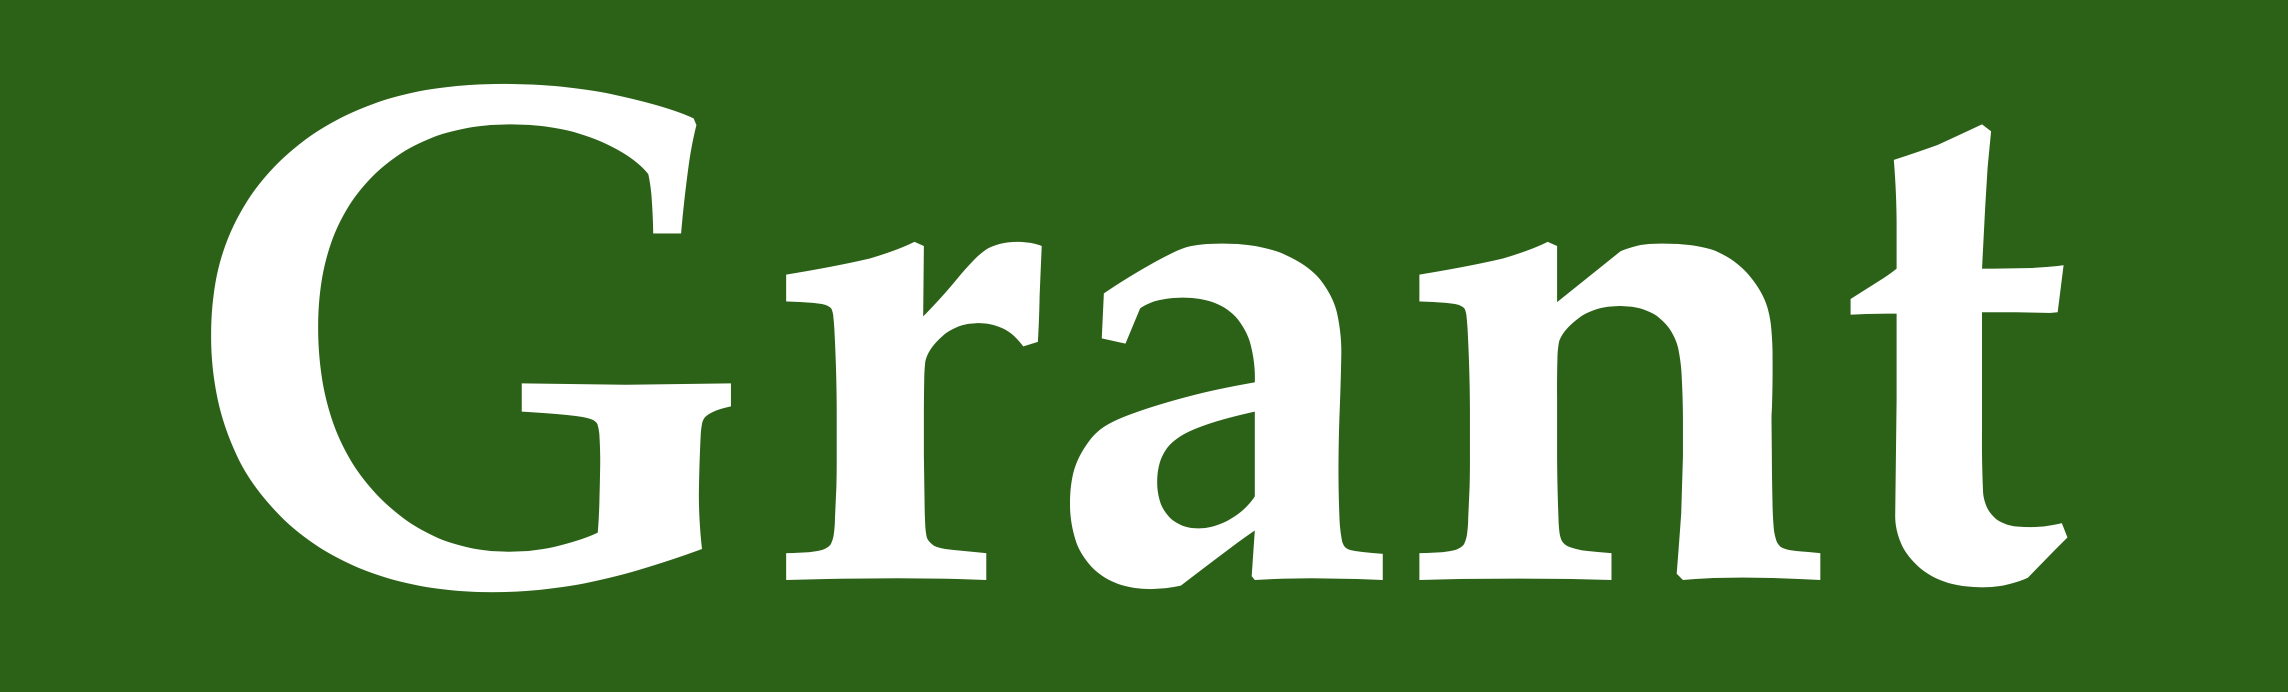
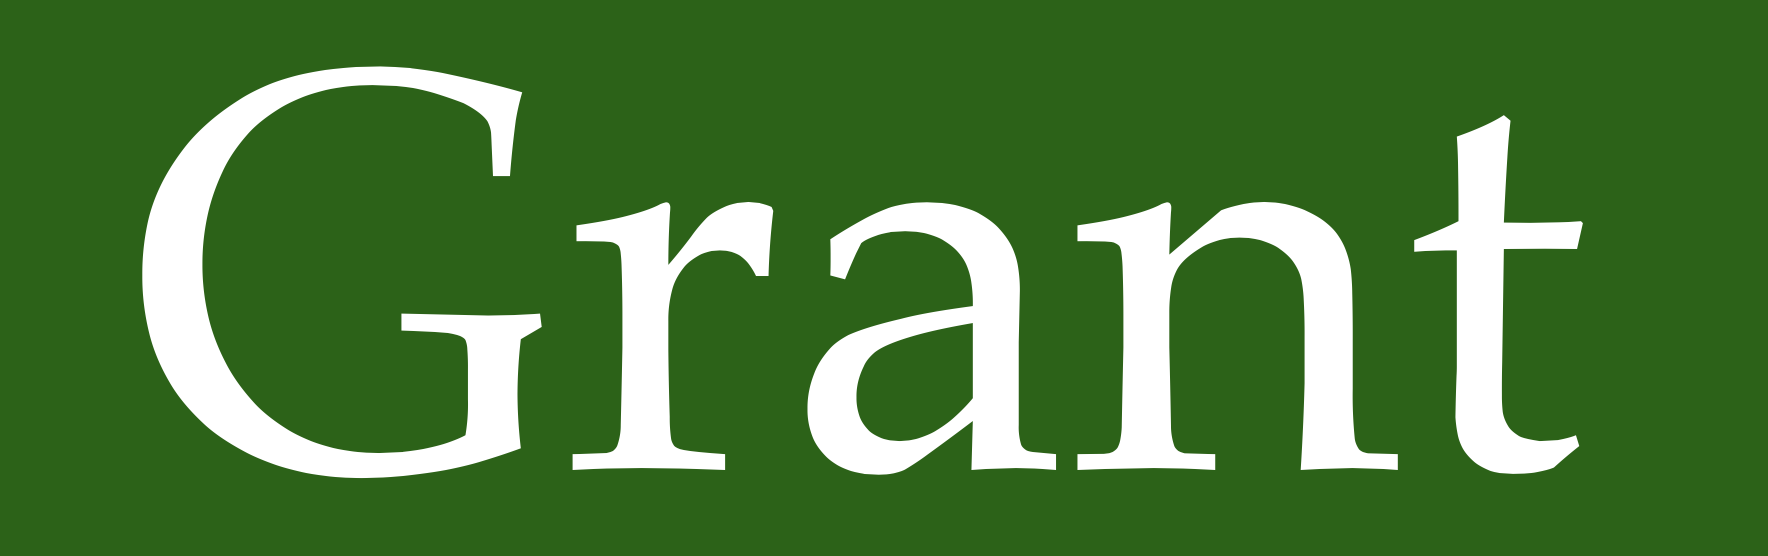
update

diff --git a/news.html b/news.html
@@ -63,7 +63,7 @@
 </li>
 <li><p>07/2022 One paper accepted for publication in <b>ICCAD</b>&rsquo;22.</p>
 </li>
-<li><p><img src="./image/grant.png" width="59px" height="20px" alt=" text" /> 07/2022 <a href="https://www.nsf.gov/awardsearch/showAward?AWD_ID=2153690&amp;HistoricalAwards=false">New project to Create Secure and Robust Machine Learning in Multi-Tenant Cloud FPGA</a>. Thanks, NSF!</p>
+<li><p>07/2022 <a href="https://www.nsf.gov/awardsearch/showAward?AWD_ID=2153690&amp;HistoricalAwards=false">New project to Create Secure and Robust Machine Learning in Multi-Tenant Cloud FPGA</a>. Thanks, NSF!</p>
 </li>
 <li><p>07/2022 One paper accepted for publication in <b>ESWEEK</b>&rsquo;22 (IEEE TCAD).</p>
 </li>
@@ -125,7 +125,7 @@
 </li>
 <li><p>01/2020 One paper accepted for publication in ISQED&rsquo;20.</p>
 </li>
-<li><p>10/2019 One paper accepted for publication in <b>FPT</b>&rsquo;19.</p>
+<li><p>Paper 10/2019 One paper accepted for publication in <b>FPT</b>&rsquo;19.</p>
 </li>
 <li><p>09/2019 One paper accepted for publication in <b>CHES</b>&rsquo;20.    
 </p>
